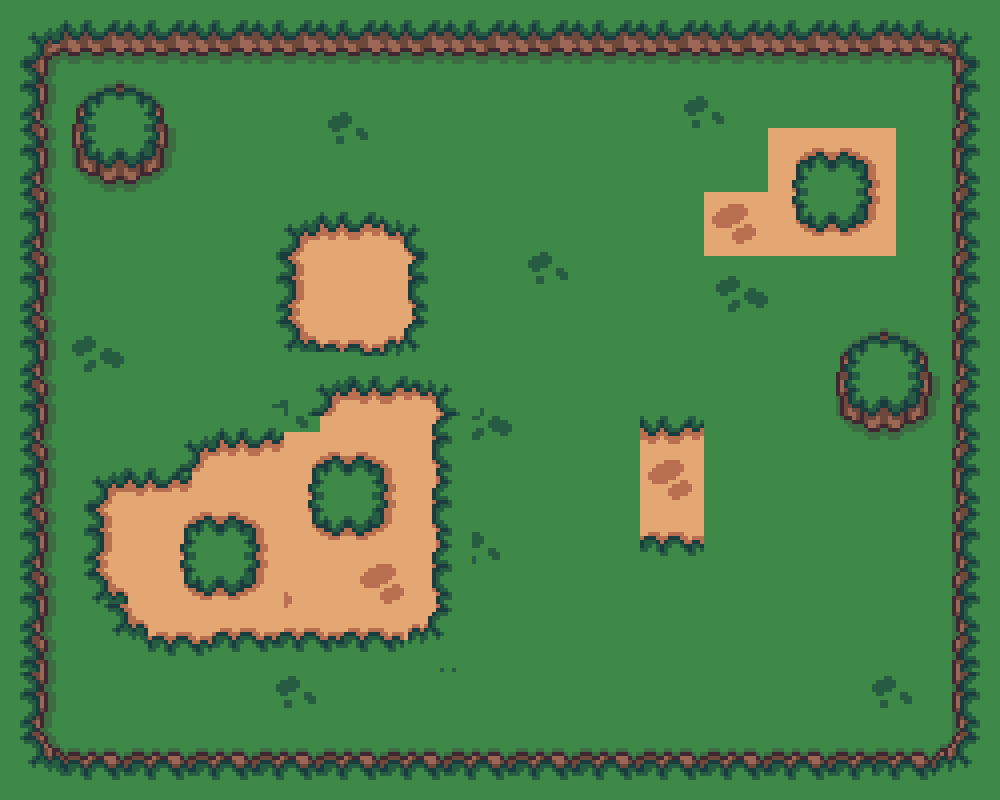
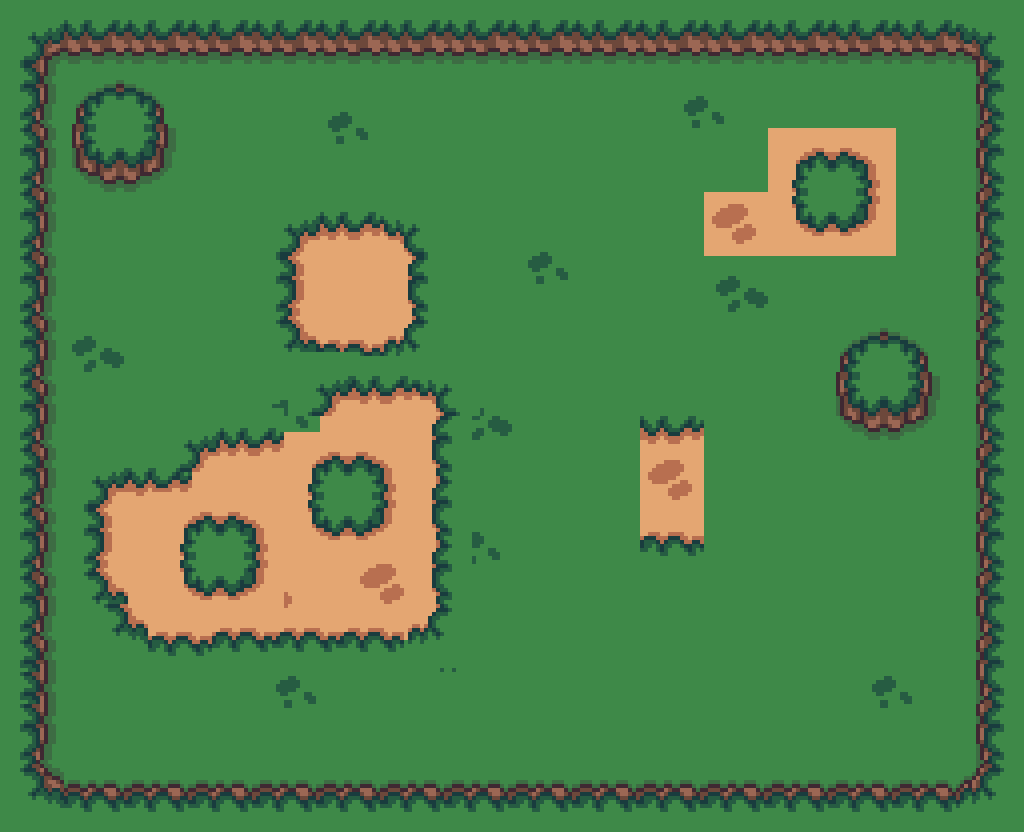
Updated map to be 1024 x 832

diff --git a/src/main.c b/src/main.c
@@ -40,7 +40,7 @@ void MovePlayer(float *x, float *y)
         moving = true;
     }
 
-    if (IsKeyDown(KEY_S) && *y <= 800 - frameHeight * 4)
+    if (IsKeyDown(KEY_S) && *y <= 832 - frameHeight * 4)
     {
         playerState = playerWalking;
         playerDirection = faceFront;
@@ -59,7 +59,7 @@ void MovePlayer(float *x, float *y)
         moving = true;
     }
 
-    if (IsKeyDown(KEY_D) && *x <= 1000 - frameWidth * 4)
+    if (IsKeyDown(KEY_D) && *x <= 1024 - frameWidth * 4)
     {
         playerState = playerWalking;
         playerDirection = faceRight;
@@ -150,7 +150,7 @@ int main(void)
     Texture2D map = LoadTexture("assets/maps/map1.png");
     SetTextureFilter(map, TEXTURE_FILTER_POINT);
 
-    Rectangle mapSource = {0, 0, 1000, 800};
+    Rectangle mapSource = {0, 0, 1024, 832};
 
     // Source rectangle on sprite sheet
     Rectangle source = {0, 0, frameWidth, frameHeight};